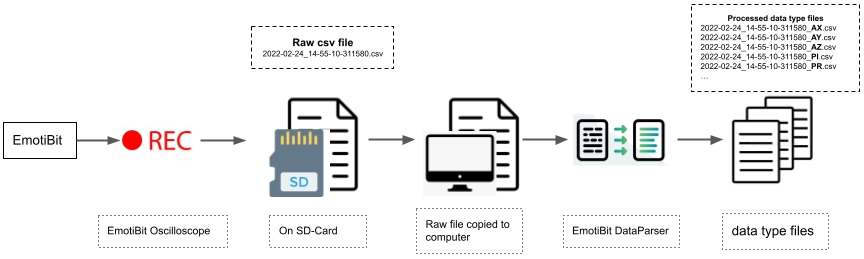
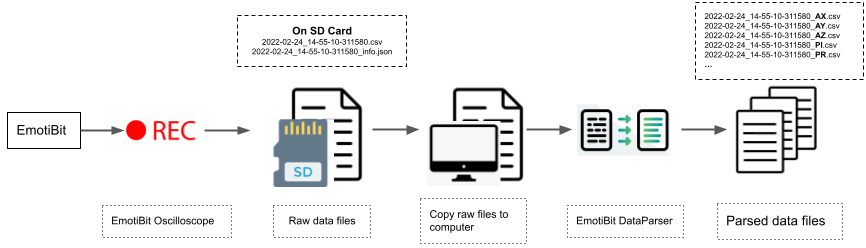
adding latest changes to "Working with data"

diff --git a/Working_with_emotibit_data.md b/Working_with_emotibit_data.md
@@ -6,7 +6,7 @@
   - [Using EmotiBit Oscilloscope to Record Data](#Using-EmotiBit-Oscilloscope-to-Record-Data)
   - [EmotiBit Oscilloscope features](#EmotiBit-Oscilloscope-features)
 - [EmotiBit DataParser](#EmotiBit-DataParser)
-  - [Process raw data using EmotiBit DataParser](#Process-raw-data-using-EmotiBit-DataParser)
+  - [Parse raw data using EmotiBit DataParser](#Parse-raw-data-using-EmotiBit-DataParser)
     - [Transfer file from SD-Card to computer](#Transfer-file-from-SD-Card-to-computer)
     - [Parse raw data file](#Parse-raw-data-file)
   - [EmotiBit file types](#EmotiBit-file-types)
@@ -23,36 +23,37 @@ EmotiBit software suite.
 <img src="./assets/WorkingWithEmotiBitWorkflow.png" width="1000">
 
 The EmotiBit workflow can be described as follows:
-- After we have set up the EmotiBit as described in the Getting Started page, we will use the EmotiBit Oscilloscope to record data.
-- The raw data is recorded as a single file on the Sd-Card.
-- After a recording is complete, the raw data file is copied to the computer.
-- We will then use the EmotiBit DataParser to process this raw data.
-- The DataParser generates one data type file for each data type.
-- Finally, after the recorded data has been processed, we will dive into some techniques to visualize the processed recorded data.
+- Set up the EmotiBit as described in the Getting Started page.
+- Use the EmotiBit Oscilloscope to record data.
+  - The raw data is recorded as a single file on the Sd-Card.
+- Copy raw data files from SD-Card to computer.
+- Use the EmotiBit DataParser to parse this raw data.
+  - The DataParser generates one parsed data file for each data type.
+- After the recorded data has been parsed, visualize the data.
 
 # EmotiBit Oscilloscope
 EmotiBit Oscilloscope offers the ability to stream data in real-time from EmotiBit to your computer along with an array of other features.
 
-Start by opening the EmotiBit Oscillosocpe on your computer. If you need more help on opening the Emotibit Oscilloscope, 
+Start by opening the EmotiBit Oscillosocpe on your computer. If you need more help with opening the Emotibit Oscilloscope, 
 you may refer to the instructions on the [Getting Started](./Getting_Started.md#Running-EmotiBit-software) page.
 
 ## Using EmotiBit Oscilloscope to Record Data
 Once you have succesfully set up your EmotiBit, you can start recording data using the EmotiBit Oscilloscope. If you have
-not yet set up your EmotiBit, check our guide on the Getting Started page.
+not yet set up your EmotiBit, check our guide on the [Getting Started](./Getting_Started.md#Running-EmotiBit-software) page.
 
 To start a record session, follow these steps:
 - Select the EmotiBit from the `EmotiBit Device List`.
-  - If you have multiple EmotiBits on the network, select the EmotiBit you want to record data on.
+  - If you have multiple EmotiBits on the network, select the EmotiBit you want to record data from.
 - Once an EmotiBit is selected, the Oscilloscope starts streaming data.
 - Click on the `Record Button` on the top console on the Oscillscope.
-- Once the a record session has been started, the `Record Button` section becomes red.
+- Once a recording session has been started, the `Record Button` section becomes red.
 - You will notice that the EmotiBit RED LED starts blinking.
 - The name of the file being recorded appears below the `Record Button` on the Oscilloscope.
 - You can end the recording session by pressing the `Record Button` again.
   - Once ended, the EmotiBit RED LED stops blinking.
-- You now have a raw data file on the SD-Card!
+- You now have a raw data files on the SD-Card!
 
-Click [here to learn how to use the DataParser](#Process-raw-data-using-EmotiBit-DataParser) to convert the raw data into processed data type files.
+[Click here to learn how to use the DataParser](#Parse-raw-data-using-EmotiBit-DataParser) to convert the raw data into parsed data files.
 <br> If you want to learn about all the features offered by the EmotiBit Oscilloscope, check out the section [below](#EmotiBit-Oscilloscope-features).
 
 ## EmotiBit Oscilloscope features
@@ -69,14 +70,17 @@ Click [here to learn how to use the DataParser](#Process-raw-data-using-EmotiBit
   - <details><summary>Streaming real-time Data</summary>
 
     - The moment you connect to an EmotiBit, the EmotiBit Ocsilloscope will display the data being transmitted by the EmotiBit.
+    - Once a connection between the Oscilloscope and EmotiBit has been established, the EmotiBit Blue LED turns ON.
+      - The EmotiBit Blue LED stays on as long as the EmotiBit is connected to an Oscilloscope. 
     </details>
   
   - <details><summary>Recording Data</summary>
     
     - Select an EmotiBit from the list of available EmotiBits.
     - You can initiate a record session by clicking on the record button. When a record session is initiated, the EmotiBit will start recording the data on the onboard SD-Card as well as stream it on the Oscilloscope.
-    - Once the Recording has been Initiated, you will notice the `red recording` indicator led flashing on the EmotiBit. You are also free to move in/out of the network, close the Oscilloscope, or connect to a new Oscilloscope.
-    -  We recommend using the EmotiBit in-network as much as possible, connected to the Oscilloscope. This helps in generating more time-syncs which improves timestamp accuracy.
+      - The EmotiBit Red LED starts blinking once a recording session has been initiated.
+    - You are free to move in/out of the network, close the Oscilloscope, or connect to a new Oscilloscope.
+    - We recommend using the EmotiBit in-network as much as possible, connected to the Oscilloscope. This helps in generating more time-syncs which improves timestamp accuracy.
     </details>
   
   - <details><summary>Log note(labeling data)</summary>
@@ -90,8 +94,14 @@ Click [here to learn how to use the DataParser](#Process-raw-data-using-EmotiBit
     The EmotiBit has 4 power modes. All modes can be accessed using the EmotiBit Oscilloscope.
     - **Normal Mode**: In normal mode, the EmotiBit works with complete functionality, being able to record and transmit data.
     - **Low Power Mode**: In Low power mode, the EmotiBit can record but cannot transmit data in real-time. It, however, continues to get the time-sync pulses.
-    - **WiFi Off**: This mode causes the EmotiBit to shut down the onboard WiFi shield. This saves power and enables long recording sessions. However, since the WiFi shield is Off, the EmotiBit cannot get time-sync pulses, which can lead to less accurate time stamping. A `long press` of the EmotiBit button toggles `normal mode` and `WiFi off mode`. If using the EmotiBit in `WiFi off` mode, we recommend leaving the EmotiBit running for a couple of minutes towards the end of the record session in `normal mode`. This can potentially help with time-syncing issues.
-    - **Sleep**: In sleep mode, EmotiBit stops any tasks it is performing and goes to sleep. We recommend switching the EmotiBit into `Sleep mode` instead of un-plugging the EmotiBit battery when not in use for short periods. If the EmotiBit is being left un-used for a long duration, it is best to flip the Hibernate Switch located at the bottom to `HIB`. 
+    - **WiFi Off**: The onboard WiFi shield is shut down in this mode. This saves power and enables longer recording sessions.
+      - However, since the WiFi shield is Off, the EmotiBit cannot get time-sync pulses, which can lead to less accurate time stamping. 
+      - A `long press` of the EmotiBit button toggles `normal mode` and `WiFi off mode`.
+      - If using the EmotiBit in `WiFi off` mode, we recommend leaving the EmotiBit running for a few minutes towards the end of the record session in `normal mode`.
+    - **Sleep**: In sleep mode, EmotiBit stops any tasks it is performing and goes to sleep.
+      - We recommend switching the EmotiBit into `Sleep mode` instead of un-plugging the EmotiBit battery when not in use for short periods.
+      - If the EmotiBit is being left un-used for a long duration, it is best to flip the Hibernate Switch to `HIB`.
+      - Refer [EmotiBit LEDs and buttons section](./Learn_more_about_emotibit.md#LEDs-and-Buttons) for more information on the Hibernate switch.
     </details>
   
   - <details><summary>DC/DO counter</summary>
@@ -115,8 +125,10 @@ Click [here to learn how to use the DataParser](#Process-raw-data-using-EmotiBit
 
       - **EmotiBit Oscilloscope v1.2.0 and up** support the ability to transmit incoming data from an EmotiBit to a user-defined output channel using the OSC protocol.
       - To enable OSC, just click on the `Output List` dropdown in the EmotiBit Oscilloscope and enable `OSC`.
-      - The EmotiBit Oscilloscope reads in and transmits out the data according to the specifications provided in the `oscOutputSettings.xml` file.
-        - This file is located in the EmotiBit Oscilloscope folder in the C: - `C:\Program Files\EmotiBit\EmotiBit Oscilloscope\data`.
+      - The EmotiBit Oscilloscope reads in and transmits out the data according to the specifications provided in the `oscOutputSettings.xml` file. The file path depends on your operating system.
+        - Windows: `C:\Program Files\EmotiBit\EmotiBit Oscilloscope\data\oscOutputSettings.xml`
+        - macOS: `EmotiBitOscilloscope/Contents/resources/oscOutputSettings.xml`
+        - Linux: `EmotiBit Oscilloscope/bin/data/oscOutputSettings.xml`
       - You can modify the contents of this file to control the behavior of the OSC output stream.
       - A snippet of the default contents are shared below
       ```
@@ -156,23 +168,25 @@ Click [here to learn how to use the DataParser](#Process-raw-data-using-EmotiBit
   </details>
 
 # EmotiBit DataParser
-The DataParser is used to convert the raw recorded data into processed data type files.<br>
-Start by opening the EmotiBit DataParser on your computer. If you need more help on opening the Emotibit DataParser, 
+The DataParser is used to convert the raw recorded data into parsed data files.<br>
+Start by opening the EmotiBit DataParser on your computer. If you need more help with opening the Emotibit DataParser, 
 you may refer to the instructions on the [Getting Started](./Getting_Started.md#Running-EmotiBit-software) page.
 
-## Process raw data using EmotiBit DataParser
+## Parse raw data using EmotiBit DataParser
 
 ### Transfer file from SD-Card to computer
-The data recorded using EmotiBit is stored on the SD-Card. To process the raw data, copy the raw data file from the SD-Card to the computer(You may use the provided SD-Card reader to do so!).
+The data recorded using EmotiBit is stored on the SD-Card. To parse the raw data, 
+copy both the **raw data file** and the **info file**(`_info.json`) from the SD-Card to the computer(You may use the provided SD-Card reader to do so!).
 
 ### Parse raw data file
  
-The steps below describe how you can use the DataParser to process the raw data file to generate individual data type files.
-- Click on the `Load file` button to open a file browser. Navigate to the `csv` file which you want to process and select that file.
+The steps below describe how you can use the DataParser to parse the raw data file to generate individual parsed data files.
+- Click on the `Load file` button to open a file browser. Navigate to the raw data(**csv**) file which you want to parse and select that file.
 - The parser will show the progress as it parses the data. The DataParser quits automatically on completion.
-- The processed data type files are created in the same directory as the original **raw** file
+- The parsed data files are created in the same directory as the original **raw data file**.
 
 ![][EmotiBit-DataParser]
+
 For more deatils on the file types check out the section [below]().
 
 
@@ -182,15 +196,19 @@ There are 3 types of files associated with EmotiBit
   - Every recording sessions generates 1 raw data file.
   - This file is named with the start time of the recording session. Ex: `2019-01-30_11-57-13-492.csv`
 - Information file(**json**)
-  - Contains information like sampling rates and other important settings for each sensor/stream.
+  - Along with the raw data file, each recording session generates 1 `info` file.
+  - It contains information like sampling rates and other important settings for each sensor/stream.
   - It shares the name of the raw file. For example, the `info` file for the above raw file will be named `2019-01-30_11-57-13-492_info.json`
-- Processed data type file(**csv**)
-  - the raw file is converted to processed files by running the DataParser.
-  - Each processed file contains data for a specific data type.
-  - The name for each processed file is created by joining the `TypeTag` of the data type to the raw file name.
-    - Ex: After running the data parser on `2019-01-30_11-57-13-492.csv`, the processed data type file containing the data for `PPG IR channel` 
+- Parsed data files(**csv**)
+  - the raw file is converted to parsed files by running the DataParser.
+  - Each parsed file contains data for a specific data type.
+  - The name for each parsed file is created by joining the `TypeTag` of the data type to the raw file name.
+    - Ex: After running the data parser on `2019-01-30_11-57-13-492.csv`, the parsed data file containing the data for `PPG IR channel` 
     will be called `2019-01-30_11-57-13-492_PI.csv`
     - For more details on data types, see [EmotiBit Data Types](./Working_with_emotibit_data.md#emotibit-data-types) (below).
+
+![][EmotiBit-File-Types]
+
 
 ## EmotiBit data types
 Each data type represents a unique signal captured by EmotiBit and is represented by a unique `TypeTag`. The most up-to-date list of TypeTags can be found in https://github.com/EmotiBit/EmotiBit_XPlat_Utils/blob/master/src/EmotiBitPacket.cpp
@@ -263,6 +281,16 @@ For a quick look at the available data types, you can check out the table below.
   |HE     |Hello EmotiBit, used to establish communication  |
 
   </details>
+
+## Data type sampling rates
+The following table shows the sampling rates at which the sensors operate with the stock EmotiBit firmware.
+
+| Function |Data Type| Sensor IC | Sampling Rate (samples per second)|
+|----------|---------|-----------|--------------|
+| Motion   |`AX` `AY` `AZ` `GX` `GY` `GZ` `MX` `MY` `MZ`|BMI160+BMI150|25|
+|PPG |`PI` `PG` `PR`| MAX30101|25|
+|Temperature |`T0` / `TH`|MAX30101 / MLX90632 |7.5|
+|EDA|`EA` `EL` `ER`|ADS1113|15|
 
 # Visualize Recorded Data
 Visualization tools can often help answer some immediate questions and hence, can be very useful when working with time-series data. Below we have outlined a number of tools that we think can be very successful.
